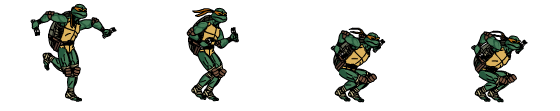
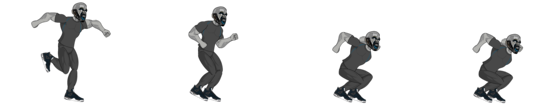
Merge - Adapated by project

diff --git a/src/scenes/InstructionsScene.js b/src/scenes/InstructionsScene.js
@@ -19,7 +19,7 @@ export default class Instructions extends Phaser.Scene {
     const topIns = this.make.text({
       x: this.width / 2,
       y: 120,
-      text: 'Our ninja turtle Michelangelo has been missioned by master Splinter to know what is happening in the NFT space',
+      text: 'Our artist Ali Dawood has decided to change himslef into a Sneaker Head and try to find his way in the NFT jungle',
       style: {
         fontSize: '45px',
         fill: '#fff',
@@ -61,7 +61,7 @@ export default class Instructions extends Phaser.Scene {
 const discord = this.make.text({
       x: this.width - 335,
       y: 305,
-      text: 'TMNT',
+      text: 'Sneaker Heads',
       style: {
         fontSize: '45px',
         fill: '#ff0000',
@@ -70,7 +70,7 @@ const discord = this.make.text({
     }).setInteractive({ useHandCursor: true });
     discord.setOrigin(0.5, 0.5);
   discord.on('pointerdown', () => {
-    window.open('https://discord.gg/theturtlelair')
+    window.open('https://discord.gg/')
   })
     const title = this.make.text({
       x: this.width / 2,

diff --git a/src/scenes/TitleScene.js b/src/scenes/TitleScene.js
@@ -39,7 +39,7 @@ export default class TitleScene extends Phaser.Scene {
     const title = this.make.text({
       x: this.width / 2,
       y: this.height / 2 - 140,
-      text: 'The official TMNT game',
+      text: 'The official Sneaker Heads game',
       style: {
         fontSize: '55px',
         fill: '#ffffff',

diff --git a/src/scenes/Boot.js b/src/scenes/Boot.js
@@ -23,7 +23,7 @@ export default class Boot extends Phaser.Scene {
     const title = this.make.text({
       x: this.width / 2,
       y: this.height / 2,
-      text: 'The official TMNT game',
+      text: 'The official Sneaker Heads game',
       style: {
         fontSize: '65px',
         fill: '#ffffff',

diff --git a/index.html b/index.html
@@ -3,7 +3,7 @@
 <head>
   <meta charset="UTF-8">
   <meta name="viewport" content="width=device-width, initial-scale=1.0">
-  <title>TMNT Game</title>
+  <title>Sneaker Heads Game</title>
 </head>
 <body>
 </body>
